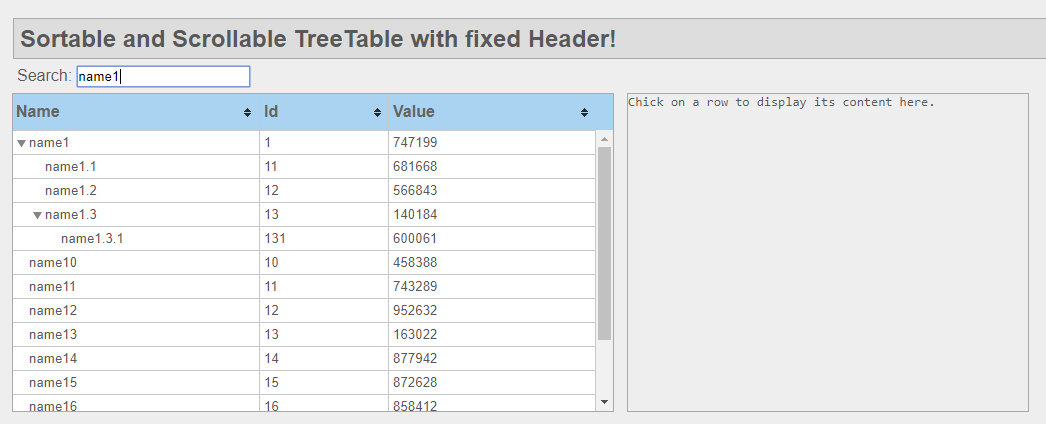
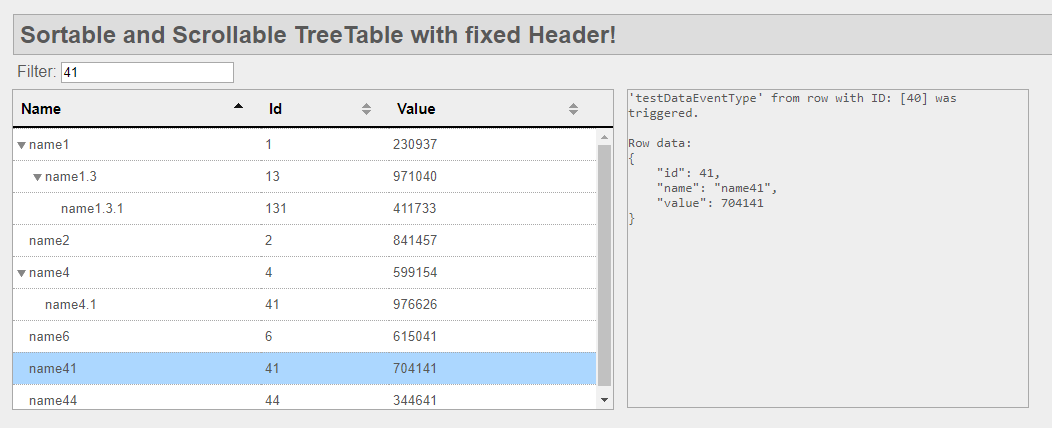
compare function improved

Changed region(s): [[0.0, 0.0307, 1.0, 0.9811], [0.9484, 0.2146, 0.979, 0.2453]]

diff --git a/js/scrollableTable.js b/js/scrollableTable.js
@@ -381,6 +381,16 @@ var scrollableTable = function(id, wrapperId) {
         }
     }
 
+    var defaultCompareFunction = function(a,b) {
+        return a.localeCompare(b, undefined, {usage: 'sort', numeric: true, sensitivity: 'base'})
+    }
+
+    var compareFunction = defaultCompareFunction
+
+    this.setCompareFunctionForSorting = function(f) {
+        compareFunction = f
+    }
+
     var sortSubtreeByColumn = function(parentId, columnIndex, sortDir) {
         // bubbleSort(Array A)
         //     for (n=A.size; n>1; --n){
@@ -415,7 +425,7 @@ var scrollableTable = function(id, wrapperId) {
 
                 // console.log("compare: "+firstValue.localeCompare(secondValue))
 
-                if (value1.localeCompare(value2) == sortDir) {
+                if (compareFunction(value1, value2) == sortDir) {
                     // move first element after second
                     moveRowAfter(row1, row2)
                 }
@@ -426,7 +436,7 @@ var scrollableTable = function(id, wrapperId) {
             } while(getRowId(row1) != undefined && getRowId(row2) != undefined )
             // console.log("############################################")
         }
-     }
+    }
 
     var handleSubtree = function(row, columnIndex, sortDir) {
         if (hasRowSubtree(row) && subtreeIsNotSorted(row)) {

diff --git a/treeTable.html b/treeTable.html
@@ -84,10 +84,13 @@
             var scrollableTable = new scrollableTable('scrollableTable', 'wrapper')
             scrollableTable.setTableHeader(["Name", "Id", "Value"])
             scrollableTable.setTableContent(testData, "testDataEventType", ["name", "id","value"], "subtree")
-            scrollableTable.setTableHeight( () => { return $( window ).height() - 166 } )
-            // or e.g.: scrollableTable.setTableHeight(500)
-            scrollableTable.expandTree()
-            scrollableTable.sortByColumnName("Name")
+            /* optional */ scrollableTable.setTableHeight( () => { return $( window ).height() - 166 } )
+                           // or e.g.: scrollableTable.setTableHeight(500)
+            /* optional */ scrollableTable.expandTree()
+            /* optional */ scrollableTable.setCompareFunctionForSorting( function(a,b) {
+                return a.localeCompare(b, undefined, {usage: 'sort', numeric: true, sensitivity: 'base'}) 
+            })
+            /* optional */ scrollableTable.sortByColumnName("Name")
 
 
 

diff --git a/index.html b/index.html
@@ -30,8 +30,12 @@
             var scrollableTable = new scrollableTable('scrollableTable', 'wrapper')
             scrollableTable.setTableHeader(["Number 1", "Number 2", "Number 3"])
             scrollableTable.setTableContent(testData, "testDataEventType", ["No1", "No2", "No3"])
-            scrollableTable.setTableHeight( () => { return $( window ).height() - 166 } )
-            // or e.g.: scrollableTable.setTableHeight(500)
+            /* optional */ scrollableTable.setTableHeight( () => { return $( window ).height() - 166 } )
+                           // or e.g.: scrollableTable.setTableHeight(500)
+            /* optional */ scrollableTable.setCompareFunctionForSorting( function(a,b) {
+                return a.localeCompare(b, undefined, {usage: 'sort', numeric: true, sensitivity: 'base'}) 
+            })
+            /* optional */ scrollableTable.sortByColumnName("Number 1")
 
             /** Event processing */
             $( document ).on("testDataEventType", function(event, rowId) {
